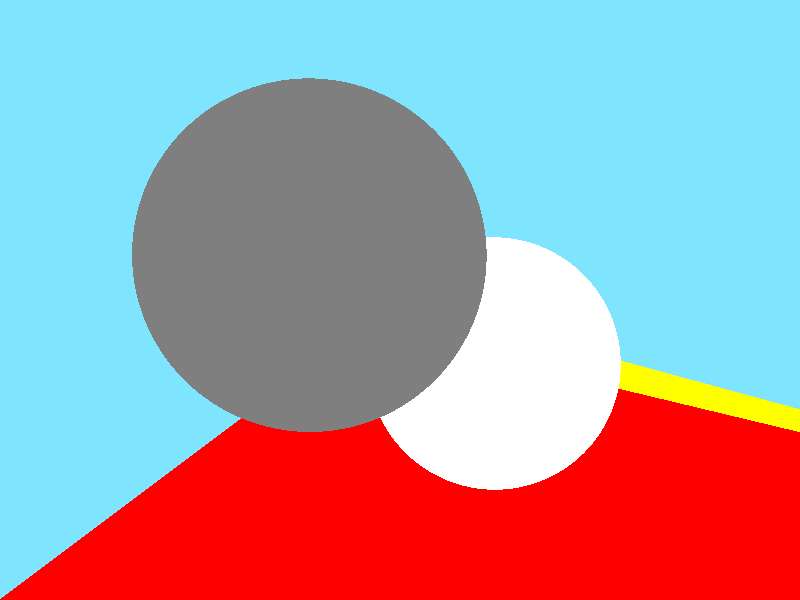
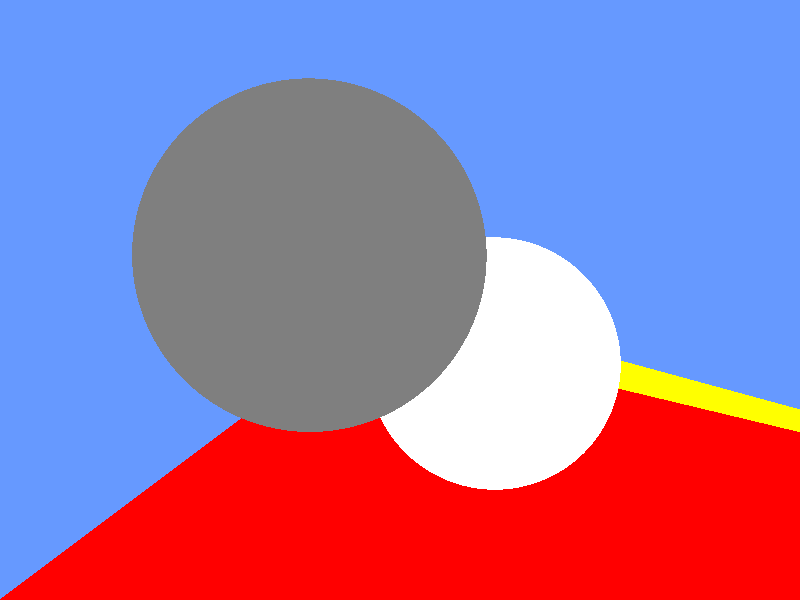
Slight code changes to make things cleaner.

diff --git a/raytracer/src/main.rs b/raytracer/src/main.rs
@@ -14,77 +14,23 @@ mod world;
 
 fn main() {
     // Get our objects setup
-    let sphere_1_color = Vec3::new(0.5, 0.5, 0.5);
-    let sphere_1_material = Material::new(sphere_1_color);
-
-    let sphere_2_color = Vec3::new(1.0, 1.0, 1.0);
-    let sphere_2_material = Material::new(sphere_2_color);
-
-    let triangle_1_color = Vec3::new(1.0, 0.0, 0.0);
-    let triangle_2_color = Vec3::new(1.0, 1.0, 0.0);
-
-    let triangle_1_material = Material::new(triangle_1_color);
-    let triangle_2_material = Material::new(triangle_2_color);
-
-    let sphere_radius = 2.0;
-
-    // in model space
-    let sphere_pos = Vec3::new(0.0, 0.0, 0.0);
-
-    let t1_v1 = Vec3::new(0.0, 0.0, 0.0);
-    let t1_v2 = Vec3::new(1.0, 0.0, 0.0);
-    let t1_v3 = Vec3::new(0.0, 1.0, 0.0);
-
-    let t2_v1 = Vec3::new(1.0, 0.0, 0.0);
-    let t2_v2 = Vec3::new(1.0, 1.0, 0.0);
-    let t2_v3 = Vec3::new(0.0, 1.0, 0.0);
-
-    let mut triangle_1 = Triangle::new((t1_v1, t1_v2, t1_v3), triangle_1_material);
-    let mut triangle_2 = Triangle::new((t2_v1, t2_v2, t2_v3), triangle_2_material);
-
-    triangle_1.translate_mut(Vec3::new(-8.0, -6.0, -10.0));
-    triangle_1.scale_mut(Vec3::new(30.0, 200.0, 1.0));
-    triangle_1.rotate_x_mut(-90.0);
-
-    triangle_2.translate_mut(Vec3::new(-8.0, -6.0, -10.0));
-    triangle_2.scale_mut(Vec3::new(30.0, 200.0, 1.0));
-    triangle_2.rotate_x_mut(-90.0);
-
-    triangle_1.compile_model();
-    triangle_2.compile_model();
-
-    let mut sphere_gray = Sphere::new(sphere_pos, sphere_radius, sphere_1_material);
-    sphere_gray.translate_mut(Vec3::new(-1.0, 0.5, -1.5));
-
-    let mut sphere_white = Sphere::new(sphere_pos, sphere_radius, sphere_2_material);
-    sphere_white.translate_mut(Vec3::new(1.5, -1.0, -6.0));
+    let (sphere_gray, sphere_white) = create_spheres();
+    let (triangle_left, triangle_right) = create_floor();
 
     // Setup camera
-    let camera_pos = Vec3::new(0.0, 0.0, 10.0);
-    let look_at = Vec3::new(0.0, 0.0, 0.0);
-    let up = Vec3::new(0.0, 1.0, 0.0);
-
-    let focal_length = 5.0;
-    let img_dim = (800, 600);
-    let film_plane_dim = (4, 3);
-
-    let camera = Camera::new(
-        camera_pos,
-        look_at,
-        up,
-        focal_length,
-        img_dim,
-        film_plane_dim,
-    );
+    let camera = create_camera();
 
     // Create our world
-    let bg_color = Vec3::new(0.5, 0.9, 1.0);
+    let bg_color = Vec3::new(0.4, 0.6, 1.0);
     let mut world = World::new(bg_color);
 
     world.add(sphere_gray);
     world.add(sphere_white);
-    world.add(triangle_1);
-    world.add(triangle_2);
+    world.add(triangle_left);
+    world.add(triangle_right);
+
+    // apply all model transformations to the objects
+    world.compile_object_models();
 
     // convert to world space
     world.objects_to_world_space();
@@ -93,4 +39,73 @@ fn main() {
     world.objects_to_view_space(camera.get_view_transform());
 
     camera.render(&world);
+}
+
+fn create_camera() -> Camera {
+    let camera_pos = Vec3::new(0.0, 0.0, 10.0);
+    let look_at = Vec3::new(0.0, 0.0, 0.0);
+    let up = Vec3::new(0.0, 1.0, 0.0);
+
+    let focal_length = 5.0;
+    let img_dim = (800, 600);
+    let film_plane_dim = (4, 3);
+
+    Camera::new(
+        camera_pos,
+        look_at,
+        up,
+        focal_length,
+        img_dim,
+        film_plane_dim,
+    )
+}
+
+fn create_floor() -> (Triangle, Triangle) {
+    let triangle_l_color = Vec3::new(1.0, 0.0, 0.0);
+    let triangle_r_color = Vec3::new(1.0, 1.0, 0.0);
+
+    let triangle_l_material = Material::new(triangle_l_color);
+    let triangle_r_material = Material::new(triangle_r_color);
+
+    let tl_v1 = Vec3::new(0.0, 0.0, 0.0);
+    let tl_v2 = Vec3::new(1.0, 0.0, 0.0);
+    let tl_v3 = Vec3::new(0.0, 1.0, 0.0);
+
+    let tr_v1 = Vec3::new(1.0, 0.0, 0.0);
+    let tr_v2 = Vec3::new(1.0, 1.0, 0.0);
+    let tr_v3 = Vec3::new(0.0, 1.0, 0.0);
+
+    let mut triangle_l = Triangle::new((tl_v1, tl_v2, tl_v3), triangle_l_material);
+    let mut triangle_r = Triangle::new((tr_v1, tr_v2, tr_v3), triangle_r_material);
+
+    triangle_l.translate_mut(Vec3::new(-8.0, -6.0, -10.0));
+    triangle_l.scale_mut(Vec3::new(30.0, 200.0, 1.0));
+    triangle_l.rotate_x_mut(-90.0);
+
+    triangle_r.translate_mut(Vec3::new(-8.0, -6.0, -10.0));
+    triangle_r.scale_mut(Vec3::new(30.0, 200.0, 1.0));
+    triangle_r.rotate_x_mut(-90.0);
+
+    (triangle_l, triangle_r)
+}
+
+fn create_spheres() -> (Sphere, Sphere) {
+    let sphere_1_color = Vec3::new(0.5, 0.5, 0.5);
+    let sphere_1_material = Material::new(sphere_1_color);
+
+    let sphere_2_color = Vec3::new(1.0, 1.0, 1.0);
+    let sphere_2_material = Material::new(sphere_2_color);
+
+    let sphere_radius = 2.0;
+
+    // in model space
+    let sphere_pos = Vec3::new(0.0, 0.0, 0.0);
+
+    let mut sphere_gray = Sphere::new(sphere_pos, sphere_radius, sphere_1_material);
+    sphere_gray.translate_mut(Vec3::new(-1.0, 0.5, -1.5));
+
+    let mut sphere_white = Sphere::new(sphere_pos, sphere_radius, sphere_2_material);
+    sphere_white.translate_mut(Vec3::new(1.5, -1.0, -6.0));
+
+    (sphere_gray, sphere_white)
 }

diff --git a/raytracer/src/geometry/primitives/sphere.rs b/raytracer/src/geometry/primitives/sphere.rs
@@ -10,6 +10,7 @@ pub struct Sphere {
     radius: f32,
     material: Material,
     model_transform: Mat4,
+    translation_matrix: Mat4,
 }
 
 impl Sphere {
@@ -19,13 +20,14 @@ impl Sphere {
             radius,
             material,
             model_transform: Mat4::IDENTITY,
+            translation_matrix: Mat4::IDENTITY,
         }
     }
 
     pub fn translate_mut(&mut self, distance: Vec3) {
-        self.model_transform.col_mut(3).x = distance.x;
-        self.model_transform.col_mut(3).y = distance.y;
-        self.model_transform.col_mut(3).z = distance.z;
+        self.translation_matrix.col_mut(3).x = distance.x;
+        self.translation_matrix.col_mut(3).y = distance.y;
+        self.translation_matrix.col_mut(3).z = distance.z;
     }
 
     fn center_mut(&mut self, transform: &Mat4) {
@@ -115,5 +117,9 @@ impl Object for Sphere {
 
     fn to_view_space_mut(&mut self, view_transform: &Mat4) {
         self.center_mut(view_transform);
+    }
+
+    fn compile_model(&mut self) {
+        self.model_transform = self.translation_matrix.mul_mat4(&self.model_transform);
     }
 }

diff --git a/raytracer/src/geometry/primitives/triangle.rs b/raytracer/src/geometry/primitives/triangle.rs
@@ -1,4 +1,4 @@
-use std::{f32::consts::PI};
+use std::f32::consts::PI;
 
 use glam::{Mat4, Quat, Vec3, Vec4, Vec4Swizzles};
 
@@ -79,13 +79,6 @@ impl Triangle {
         self.rotation_matrix = Mat4::from_quat(q);
     }
 
-    pub fn compile_model(&mut self) {
-        self.model_transform = self.translation_matrix
-        .mul_mat4(&self.rotation_matrix)
-        .mul_mat4(&self.scaling_matrix)
-        .mul_mat4(&self.model_transform);
-    }
-
     fn verts_mut(&mut self, transform: &Mat4) {
         let v1_h = Vec4::from((self.vertices.0, 1.0));
         let v2_h = Vec4::from((self.vertices.1, 1.0));
@@ -140,5 +133,13 @@ impl Object for Triangle {
 
     fn to_view_space_mut(&mut self, view_transform: &Mat4) {
         self.verts_mut(view_transform);
+    }
+
+    fn compile_model(&mut self) {
+        self.model_transform = self
+            .translation_matrix
+            .mul_mat4(&self.rotation_matrix)
+            .mul_mat4(&self.scaling_matrix)
+            .mul_mat4(&self.model_transform);
     }
 }

diff --git a/raytracer/src/world/mod.rs b/raytracer/src/world/mod.rs
@@ -69,4 +69,11 @@ impl World {
             obj.as_mut().to_view_space_mut(view_transform);
         }
     }
+
+    pub fn compile_object_models(&mut self) {
+        for obj_idx in 0..self.objects.len() {
+            let obj = self.objects.get_mut(obj_idx).unwrap();
+            obj.as_mut().compile_model();
+        }
+    }
 }

diff --git a/raytracer/src/geometry/object.rs b/raytracer/src/geometry/object.rs
@@ -8,4 +8,6 @@ pub trait Object {
     fn to_world_space_mut(&mut self);
 
     fn to_view_space_mut(&mut self, view_transform: &Mat4);
+
+    fn compile_model(&mut self);
 }
